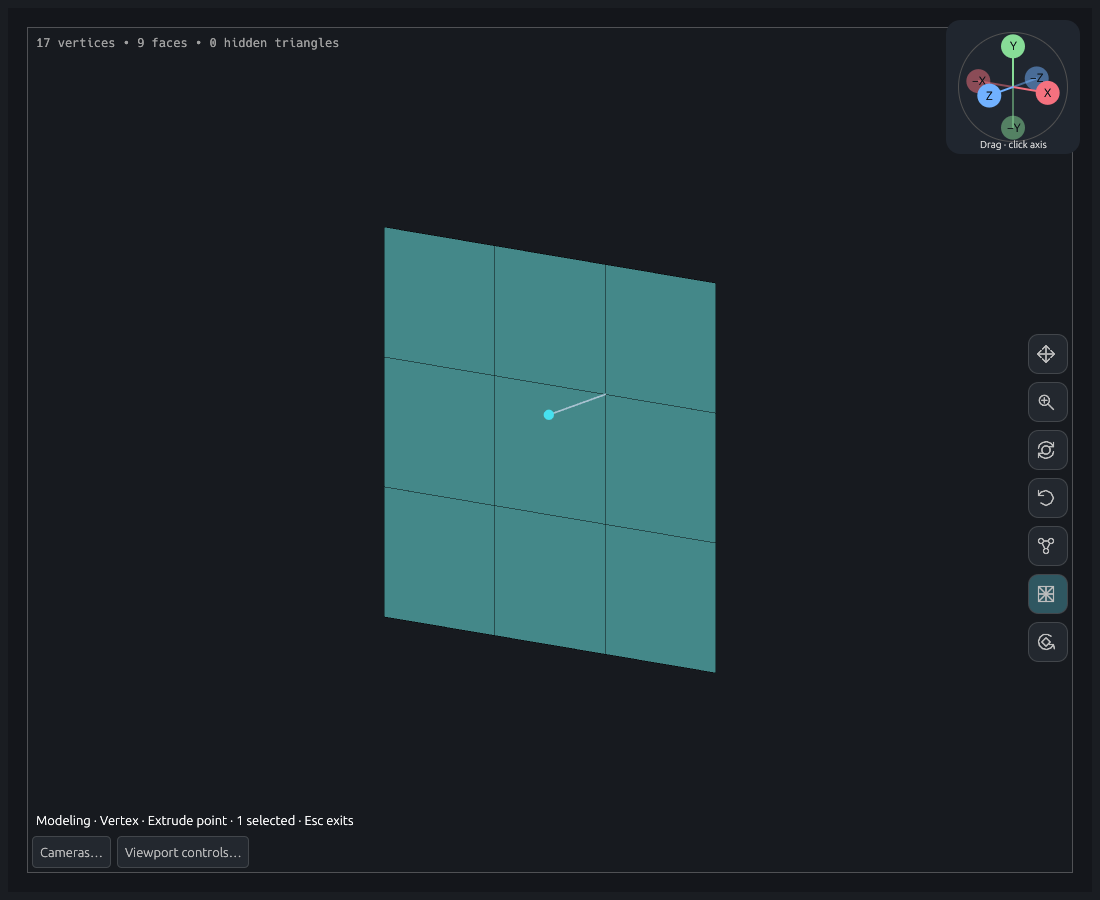
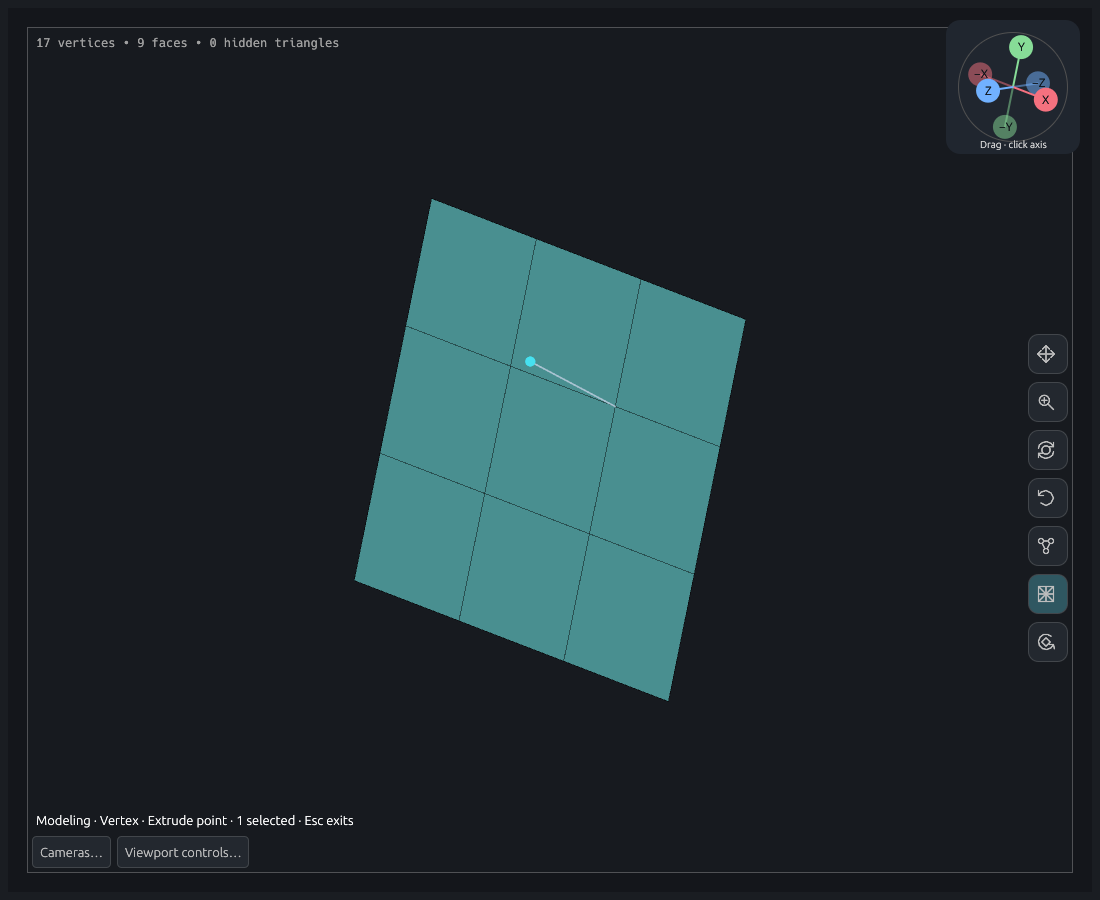
Drag extruded points in the screen plane

diff --git a/src/viewport/modeling/edit.rs b/src/viewport/modeling/edit.rs
@@ -261,23 +261,35 @@ impl ModelingState {
                     .collect();
                 mesh.protect_model_vertices(&touched, options.protect_mask)?;
             }
-            let result = mesh.build_components(
-                kind,
-                &faces,
-                &edges,
-                &points,
-                anchor,
-                crate::sculpt::ComponentBuildOptions {
-                    amount,
-                    width: c.width,
-                    round: c.round,
-                    double_ring: c.double_ring,
-                    triangulate: c.triangulate,
-                    crease: c.crease,
-                    other_side: c.other_side,
-                },
-                &ModelingSymmetry::new(mesh, document.symmetry())?,
-            )?;
+            let result = if options.tool == ModelTool::PointExtrude {
+                if options.transform_direction.len() < 1e-7 {
+                    return Err("Drag first to set the extrusion direction".into());
+                }
+                mesh.extrude_points_by(
+                    &points,
+                    anchor,
+                    options.transform_direction * amount,
+                    &ModelingSymmetry::new(mesh, document.symmetry())?,
+                )?
+            } else {
+                mesh.build_components(
+                    kind,
+                    &faces,
+                    &edges,
+                    &points,
+                    anchor,
+                    crate::sculpt::ComponentBuildOptions {
+                        amount,
+                        width: c.width,
+                        round: c.round,
+                        double_ring: c.double_ring,
+                        triangulate: c.triangulate,
+                        crease: c.crease,
+                        other_side: c.other_side,
+                    },
+                    &ModelingSymmetry::new(mesh, document.symmetry())?,
+                )?
+            };
             mesh.check_model_protection(&result, options.protect_mask)?;
             let tips = if options.tool == ModelTool::PointExtrude {
                 (mesh.vertices.len()..result.vertices.len())
@@ -515,11 +527,13 @@ impl ModelingState {
         self.notice = (!result.notice.is_empty()).then_some(result.notice);
         self.last_edit = Some(last);
         self.requested_amount = Some(amount);
-        if options.tool.is_transform() {
+        if options.tool.is_transform() || options.tool == ModelTool::PointExtrude {
             self.requested_direction = Some(options.transform_direction);
         }
         self.selection_anchor = Some(
-            if drag.direct.is_some() && options.tool == ModelTool::Move {
+            if drag.direct.is_some()
+                && matches!(options.tool, ModelTool::Move | ModelTool::PointExtrude)
+            {
                 drag.anchor + options.transform_direction * amount
             } else {
                 drag.anchor
@@ -636,7 +650,10 @@ impl Viewport {
             Ok(targets) => {
                 let mesh = document.mesh();
                 let anchor = match component {
-                    Component::Vertex(v) if mesh.loose_edges.iter().any(|e| e.contains(&v)) => {
+                    Component::Vertex(v)
+                        if model.tool == ModelTool::PointExtrude
+                            || mesh.loose_edges.iter().any(|e| e.contains(&v)) =>
+                    {
                         mesh.vertices[v]
                     }
                     Component::Edge(edge) if mesh.loose_edges.contains(&edge) => {
@@ -657,7 +674,9 @@ impl Viewport {
                     self.session.gesture = Some(Gesture::Modeling);
                     return;
                 }
-                if model.tool.is_transform() && model.interaction == ModelInteraction::Free {
+                if model.tool == ModelTool::PointExtrude
+                    || (model.tool.is_transform() && model.interaction == ModelInteraction::Free)
+                {
                     match self.modeling.begin_direct(
                         document,
                         scene,

diff --git a/src/ui/modeling.rs b/src/ui/modeling.rs
@@ -328,14 +328,15 @@ impl UiState {
                     } else if !tool.instant() {
                         ui.label(if tool==ModelTool::PointSplit {"Radius"}else{"Distance"});
                         search::setting_response(ui.add(egui::DragValue::new(&mut self.modeling.amount).speed(0.01)), "Modeling amount");
-                        ui.weak("Drag up/down to adjust · release applies · Esc cancels");
+                        ui.weak(if tool == ModelTool::PointExtrude {"Drag in the screen plane · release applies · Esc cancels"} else {"Drag up/down to adjust · release applies · Esc cancels"});
                     }
                     if tool==ModelTool::EdgeExtrude {
                         design::checkbox(ui, &mut self.modeling.construction.other_side,"Other adjacent side");
                         ui.weak("Border: extend outward · surface: extrude the highlighted side");
                     }
                     if tool==ModelTool::PointExtrude {
-                        ui.weak("Creates one vertex joined to the original by an edge. Follows the surface normal, or continues an existing loose edge. The new endpoint stays selected.");
+                        ui.weak("Creates one vertex joined to the original by an edge. The new endpoint follows your drag in the screen plane and stays selected.");
+                        ui.weak("Drag first to set the direction for Apply amount and tap to repeat.");
                     }
                     if tool==ModelTool::PointSplit {
                         search::setting_response(design::checkbox(ui, &mut self.modeling.construction.round,"Circularize ring"), "Circularize ring");
@@ -343,7 +344,7 @@ impl UiState {
                         ui.weak("Closed point fan · radius below half the shortest edge");
                     }
                     if tool.instant(){ui.weak(if tool==ModelTool::FacePoint {"Tap: connect a center point to each corner"}else{"Tap: split into quads and connect neighboring edges"});}
-                    if ui.add_enabled(self.modeling.count>0,egui::Button::new(if tool.instant(){"Apply to selection"}else{"Apply amount"})).customize(Action::ModelApply).clicked(){commands.push(Command::ModelApply);}
+                    if ui.add_enabled(self.modeling.count>0 && (tool != ModelTool::PointExtrude || self.modeling.transform_direction.len()>1e-6),egui::Button::new(if tool.instant(){"Apply to selection"}else{"Apply amount"})).customize(Action::ModelApply).clicked(){commands.push(Command::ModelApply);}
                 }
 
                 ModelTool::Select => {

diff --git a/src/sculpt/modeling/components.rs b/src/sculpt/modeling/components.rs
@@ -591,6 +591,62 @@ impl Mesh {
         self.finish_components(out, symmetry)
     }
 
+    /// Add endpoints using a view-derived displacement, reflected for symmetry copies.
+    pub(crate) fn extrude_points_by(
+        &self,
+        vertices: &[usize],
+        anchor: Vec3,
+        displacement: Vec3,
+        symmetry: &ModelingSymmetry,
+    ) -> Result<Mesh, String> {
+        manifold(self)?;
+        self.protect_model_vertices(vertices, false)?;
+        if ![displacement.0, displacement.1, displacement.2]
+            .into_iter()
+            .all(f32::is_finite)
+        {
+            return Err("Use a finite extrusion distance".into());
+        }
+        if displacement.len() < 1e-7 {
+            return Ok(self.clone());
+        }
+        let (seeds, _) = self.component_transform_frame(vertices, anchor, symmetry);
+        let mut positions = BTreeMap::new();
+        for seed in seeds {
+            let mut offsets = BTreeMap::<usize, (Vec3, usize)>::new();
+            for (mapping, basis) in symmetry.vertices.iter().zip(&symmetry.bases) {
+                let delta = basis[0] * displacement.0
+                    + basis[1] * displacement.1
+                    + basis[2] * displacement.2;
+                let value = offsets.entry(mapping[seed]).or_default();
+                value.0 = value.0 + delta;
+                value.1 += 1;
+            }
+            for (v, (delta, count)) in offsets {
+                let delta = delta * (1. / count as f32);
+                if delta.len() > 1e-7 {
+                    positions.insert(v, self.vertices[v] + delta);
+                }
+            }
+        }
+        if positions.is_empty() {
+            return Ok(self.clone());
+        }
+        self.protect_model_vertices(&positions.keys().copied().collect::<Vec<_>>(), false)?;
+        if self.vertices.len() + positions.len() > max_vertices() {
+            return Err("Point extrusion exceeds the vertex limit".into());
+        }
+        let mut out = self.clone();
+        for (v, position) in positions {
+            let tip = out.append_blend(self, &[(v, 1.)], position);
+            out.loose_edges.push(edge(v, tip));
+        }
+        out.loose_edges.sort_unstable();
+        out.validate()?;
+        symmetry.validate_result(&out)?;
+        Ok(out)
+    }
+
     fn extrude_point_edges(
         &self,
         vertices: &[usize],

diff --git a/src/app/tests/region_selection_capture.rs b/src/app/tests/region_selection_capture.rs
@@ -233,6 +233,7 @@ fn point_extrude_offscreen_review() {
             .unwrap();
         g.app.camera.yaw = 0.6;
         g.app.camera.pitch = -0.25;
+        g.app.camera.roll = 0.2;
         g.app.camera.zoom = 0.65;
         g.app.camera.perspective = perspective;
         g.app.dispatch(Command::ModelingMode(true), &g.ctx);
@@ -255,7 +256,8 @@ fn point_extrude_offscreen_review() {
             .unwrap();
         let before = g.app.document.geometry_snapshot();
         let start = project(&g.app.camera, before.mesh.vertices[root]);
-        g.stroke(start, start + Vec2::new(0., -100.));
+        let destination = start + Vec2::new(-85., -45.);
+        g.stroke(start, destination);
         let after = g.app.document.geometry_snapshot();
         assert_eq!(
             after.mesh.vertices.len(),
@@ -269,6 +271,14 @@ fn point_extrude_offscreen_review() {
         );
         assert_eq!(after.mesh.triangles, before.mesh.triangles);
         let tip = before.mesh.vertices.len();
+        assert!(project(&g.app.camera, after.mesh.vertices[tip]).distance(destination) < 1.);
+        let (_, _, view) = g.app.camera.basis();
+        assert!(
+            (after.mesh.vertices[tip] - before.mesh.vertices[root])
+                .dot(view)
+                .abs()
+                < 1e-5
+        );
         assert_eq!(
             g.app.viewport.modeling.selected,
             [Component::Vertex(tip)].into()
@@ -279,6 +289,15 @@ fn point_extrude_offscreen_review() {
             "orthographic"
         };
         g.save(&format!("point-extrude-{name}"));
+        let next = destination + Vec2::new(-45., 35.);
+        g.stroke(destination, next);
+        let second_tip = after.mesh.vertices.len();
+        assert!(
+            project(&g.app.camera, g.app.document.mesh().vertices[second_tip]).distance(next) < 1.
+        );
+        assert_eq!(g.app.document.mesh().loose_edges.len(), 2);
+        g.app.dispatch(Command::Undo, &g.ctx);
+        assert_eq!(g.app.document.geometry_snapshot(), after);
         g.app.execute_action(Action::ModelSelect, &g.ctx);
         g.app.execute_action(Action::ModelClearSelection, &g.ctx);
         let point = project(&g.app.camera, after.mesh.vertices[tip]);

diff --git a/src/sculpt/modeling/tests.rs b/src/sculpt/modeling/tests.rs
@@ -2328,3 +2328,50 @@ fn point_extrude_edges_survive_obj_merge_and_vertex_reindexing() {
     );
     assert!(original.require_surface_topology().is_err());
 }
+
+#[test]
+fn point_extrude_displacement_preserves_faces_and_reflects_from_dragged_side() {
+    let mut primitive = Primitive::for_kind(PrimitiveKind::Grid);
+    primitive.divisions = [3, 3, 1];
+    let mesh = primitive.mesh().unwrap();
+    let root = mesh
+        .vertices
+        .iter()
+        .position(|p| p.0 > 0. && p.0 < 0.5 && p.1 > 0. && p.1 < 0.5)
+        .unwrap();
+    let mut settings = crate::sculpt::Symmetry::default();
+    settings.enabled = true;
+    settings.mirror = [true, false, false];
+    let symmetry = ModelingSymmetry::new(&mesh, &settings).unwrap();
+    let delta = Vec3(0.13, 0.27, 0.19);
+    let out = mesh
+        .extrude_points_by(&[root], mesh.vertices[root], delta, &symmetry)
+        .unwrap();
+    assert_eq!(out.loose_edges.len(), 2);
+    assert_eq!(out.triangles, mesh.triangles);
+    assert_eq!(out.quads, mesh.quads);
+    assert_eq!(&out.vertices[..mesh.vertices.len()], mesh.vertices);
+    for [source, tip] in &out.loose_edges {
+        let expected = if mesh.vertices[*source].0 > 0. {
+            delta
+        } else {
+            Vec3(-delta.0, delta.1, delta.2)
+        };
+        assert!((out.vertices[*tip] - mesh.vertices[*source] - expected).len() < 1e-6);
+    }
+    symmetry.validate_result(&out).unwrap();
+    assert_eq!(
+        mesh.extrude_points_by(&[root], mesh.vertices[root], Vec3::default(), &symmetry)
+            .unwrap(),
+        mesh
+    );
+    assert!(
+        mesh.extrude_points_by(
+            &[root],
+            mesh.vertices[root],
+            Vec3(f32::NAN, 0., 0.),
+            &symmetry
+        )
+        .is_err()
+    );
+}

diff --git a/src/app/tests/modeling.rs b/src/app/tests/modeling.rs
@@ -1123,6 +1123,9 @@ fn modeling_component_construction_taps_preview_cancel_and_undo() {
         };
         app.ui.modeling.construction.width = 0.08;
         app.ui.modeling.construction.double_ring = tool == ModelTool::PointSplit;
+        if tool == ModelTool::PointExtrude {
+            app.ui.modeling.transform_direction = Vec3(1., 0., 0.);
+        }
         app.ui.modeling.options().validate().unwrap();
         let before = app.document.geometry_snapshot();
         let history = app.document.history_counts().0;
@@ -2635,6 +2638,7 @@ fn point_extrude_keeps_tip_selected_moves_deletes_and_round_trips_with_undo() {
         rect.center() + Vec2::new(scale / 3., scale / 3.),
     );
     app.execute_action(Action::ModelTool(ModelTool::PointExtrude), &ctx);
+    app.ui.modeling.transform_direction = Vec3(1., 0., 0.);
     app.ui.modeling.amount = 0.4;
     let before = app.document.geometry_snapshot();
     let history = app.document.history_counts();
@@ -2700,6 +2704,7 @@ fn point_extrude_protects_masked_roots_and_loose_tips() {
     geometry.mesh.mask[0] = 1.;
     app.document.replace_geometry(geometry.clone()).unwrap();
     app.execute_action(Action::ModelTool(ModelTool::PointExtrude), &ctx);
+    app.ui.modeling.transform_direction = Vec3(1., 0., 0.);
     navigation_frame(&mut app, &ctx, vec![]);
     app.viewport.modeling.selected = [crate::viewport::Component::Vertex(0)].into();
     let history = app.document.history_counts();

diff --git a/src/viewport/modeling/transform.rs b/src/viewport/modeling/transform.rs
@@ -108,6 +108,11 @@ impl ModelingState {
             anchor,
             &symmetry,
         );
+        let pivot = if options.tool == ModelTool::PointExtrude {
+            anchor
+        } else {
+            pivot
+        };
         self.edit_drag = Some(EditDrag {
             start: point,
             direct: Some(DirectDrag {
@@ -161,7 +166,7 @@ impl ModelingState {
         let delta = point - drag.start;
         let pivot = direct.pivot;
         let (direction, amount) = match options.tool {
-            ModelTool::Move => {
+            ModelTool::Move | ModelTool::PointExtrude => {
                 let displacement = match direct.handle {
                     Handle::Axis(axis) => {
                         let amount = scene

diff --git a/docs/guide/modeling.md b/docs/guide/modeling.md
@@ -374,13 +374,13 @@ Choose a component mode to reveal its construction tools. Measured tools support
 | Edge | Split edge | Drag along the edge to place a new vertex. **Position** runs from 0 to 1, starting at the circled endpoint nearest the initial press; insertion stays just inside the endpoints. |
 | Edge | Collapse edge | Drag along the edge or choose **Marked end**, **Midpoint**, or **Other end**. This merges both endpoints at the chosen position. |
 | Vertex | Split point | Set Radius or drag up/down to replace a vertex with a ring and center patch. **Double ring sides (4 to 8)** adds one corner inside each adjacent face. **Circularize ring**, **Triangulate center**, and **Crease ring** control the patch. |
-| Vertex | Extrude point | Set Distance or drag up/down to add one vertex joined to the original by one edge. Existing faces stay intact. The edge follows the averaged surface normal; extruding a loose endpoint continues its incoming edge. |
+| Vertex | Extrude point | Drag to add one vertex joined to the original by one edge. The new endpoint follows the cursor in the screen plane at the original vertex’s depth. Existing faces stay intact. Distance and tap-to-repeat reuse the last drag direction. |
 | Face | Insert center point | Tap a face to insert its center and connect it to every corner with triangles. |
 | Face | Split face | Tap to connect a new center to shared edge midpoints, producing quads inside each selected face. |
 
 **Insert center point** and **Split face** act on a tap even when Tap to repeat is disabled. Both also offer **Apply to selection**. **Extrude point** keeps its new endpoints selected for the next extrusion or move. Other construction tools clear the component selection after committing; hover or select the new geometry for the next operation. Their buttons can be added to custom menus, shelves and shortcuts, and their settings save in tool presets.
 
-Point extrusion works on surface borders as well as interior vertices. It has no base radius or ring settings. Use **Select**, **Move**, **Delete vertices**, or the Z region tools on the new endpoint; each extrusion is one Undo/Redo step. Orbit slightly to see an edge that points straight toward the camera.
+Point extrusion works on surface borders as well as interior vertices. It has no base radius or ring settings. Use **Select**, **Move**, **Delete vertices**, or the Z region tools on the new endpoint; each extrusion is one Undo/Redo step. Each new drag sets a fresh direction, including when extending a loose endpoint. Orbiting changes the drawing plane; perspective and camera roll are respected. Drag once before using Apply amount.
 
 ![One new vertex connected to the original by a single edge](../images/point-extrude-orthographic.png)
 

diff --git a/docs/validation/manual-topology-2026-11-15/README.md b/docs/validation/manual-topology-2026-11-15/README.md
@@ -21,3 +21,5 @@ Vertex deletion adds three passing focused regressions for multiple targets, ret
 Point extrusion now adds one vertex and one genuine edge per selected point without replacing any original faces. The new endpoint remains selected for repeated extrusion. Twenty-nine distinct focused CPU checks passed across point construction, symmetry/protection, picking and selection depth, snapping and OBJ import/export. They also cover endpoint movement/deletion, one-step Undo/Redo, native project round-trips, preserved attributes and vertex reindexing. `point_extrude_offscreen_review` passed actual pointer extrusion, endpoint and edge picking, free dragging and Undo/Redo in orthographic and perspective views. Both rendered results were inspected; the orthographic image is in the guide. Loose edges persist in .clay and OBJ, while unsupported surface reconstruction/export paths report their limits before changing geometry.
 
 The previous head's GPU CI failure was isolated to the manual topology walkthrough clicking Add while it was below the visible sidebar. The fixture now scrolls that control into view. The corrected `manual_topology_offscreen_review` passed locally.
+
+Screen-plane point extrusion: the endpoint now follows both horizontal and vertical pointer movement at the clicked vertex depth. Ten focused CPU checks passed, including mirrored displacement, masks, cancellation, repeat, deletion, save/reopen and Undo/Redo. The updated Vulkan walkthrough passed diagonal and repeated extrusion, endpoint movement and edge picking with camera roll in both projections; it checks cursor alignment and constant view depth. The perspective capture was visually inspected and the guide image refreshed. Apply amount and tap-to-repeat reuse the last drag direction.
